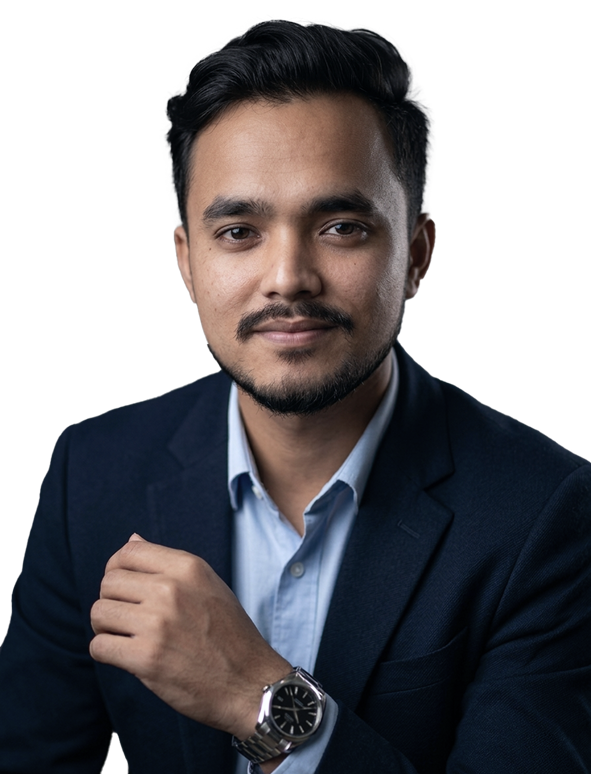
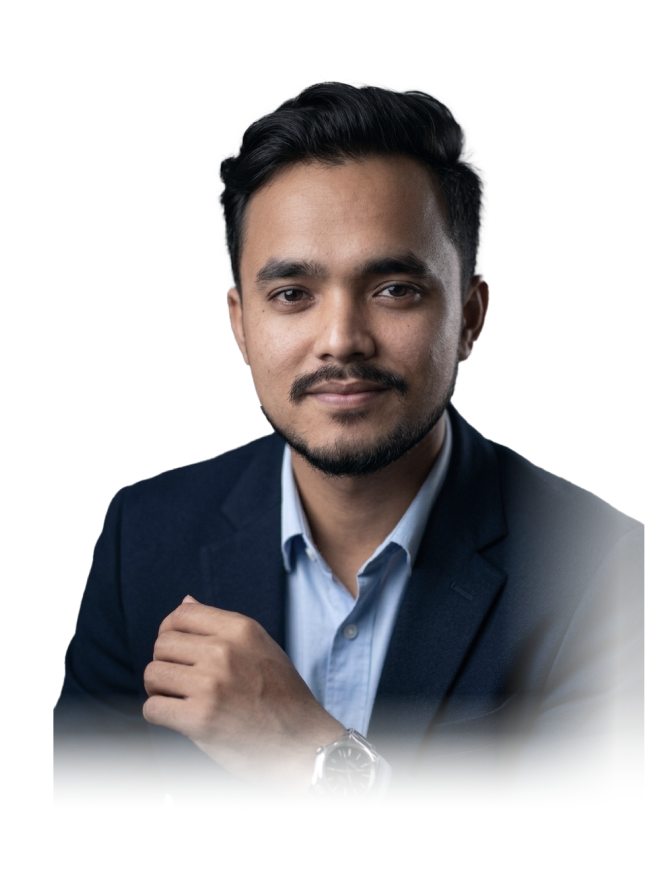
again image adusjment

diff --git a/app/myprofession/page.js b/app/myprofession/page.js
@@ -31,13 +31,8 @@ export default function MyProfession() {
     return (
         <section className="relative">
 
-                <div className="absolute inset-0 -z-10  w-full h-full mx-auto"
-                    style={{
-                        backgroundImage: `url(${bg.src})`, backgroundSize: 'cover', backgroundPosition: 'center'
-                    }}  >
-
-                </div>
-            <section className=" max-w-[1440px] mx-auto flex px-6 md:px-10  overflow-x-hidden  pt-30">
+               
+            <section className=" max-w-[1440px] mx-auto flex px-6 md:px-10  overflow-x-hidden   py-20">
                 <div className="flex lg:flex-row flex-col items-center gap-8">
 
                     {/* Left Side: Content */}

diff --git a/app/components/ProfessionalJourney.js b/app/components/ProfessionalJourney.js
@@ -30,7 +30,7 @@ export default function ProfessionalJourney() {
     return (
         <section>
 
-            <section className="max-w-[1440px] mx-auto px-6 md:px-10 lg:pt-10 pt-20 overflow-x-hidden ">
+            <section className="max-w-[1440px]   mx-auto px-6 md:px-10 lg:pt-10 pt-20 overflow-x-hidden ">
             <div className="group grid grid-cols-1 lg:grid-cols-2 gap- items-center rounded-2xl relative md:gap-0 gap-6">
             <div className="absolute z-30 bottom-0 left-0 w-full h-[50px] bg-linear-to-t from-[#0A427D]/40 to-transparent rounded-b-2xl border-b-2 border-[#0A427D]/60 opacity-0 group-hover:opacity-100 transition-opacity duration-300">
               

diff --git a/app/components/RahimIntriduce.js b/app/components/RahimIntriduce.js
@@ -8,7 +8,7 @@ import { motion } from "framer-motion";
 
 export default function RahimIntriduce() {
     return (
-        <section className=" overflow-hidden  xl:pb-40 pb-60 ">
+        <section className=" overflow-hidden  xl:pb-40 pb-80 ">
             <div className="max-w-[1200px] mx-auto px-6 flex flex-col items-center relative">
 
                 {/* Profile Section with Floating Badges */}

diff --git a/app/components/Toolbox.js b/app/components/Toolbox.js
@@ -72,7 +72,7 @@ export default function Toolbox() {
     };
 
     return (
-        <section className="relative w-full  py-30 lg:my-20 md:my-10 my-5   h-screen   ">
+        <section className="relative w-full  py-30 lg:my-20 md:my-10 my-5     h-screen   ">
 
 
             <video
